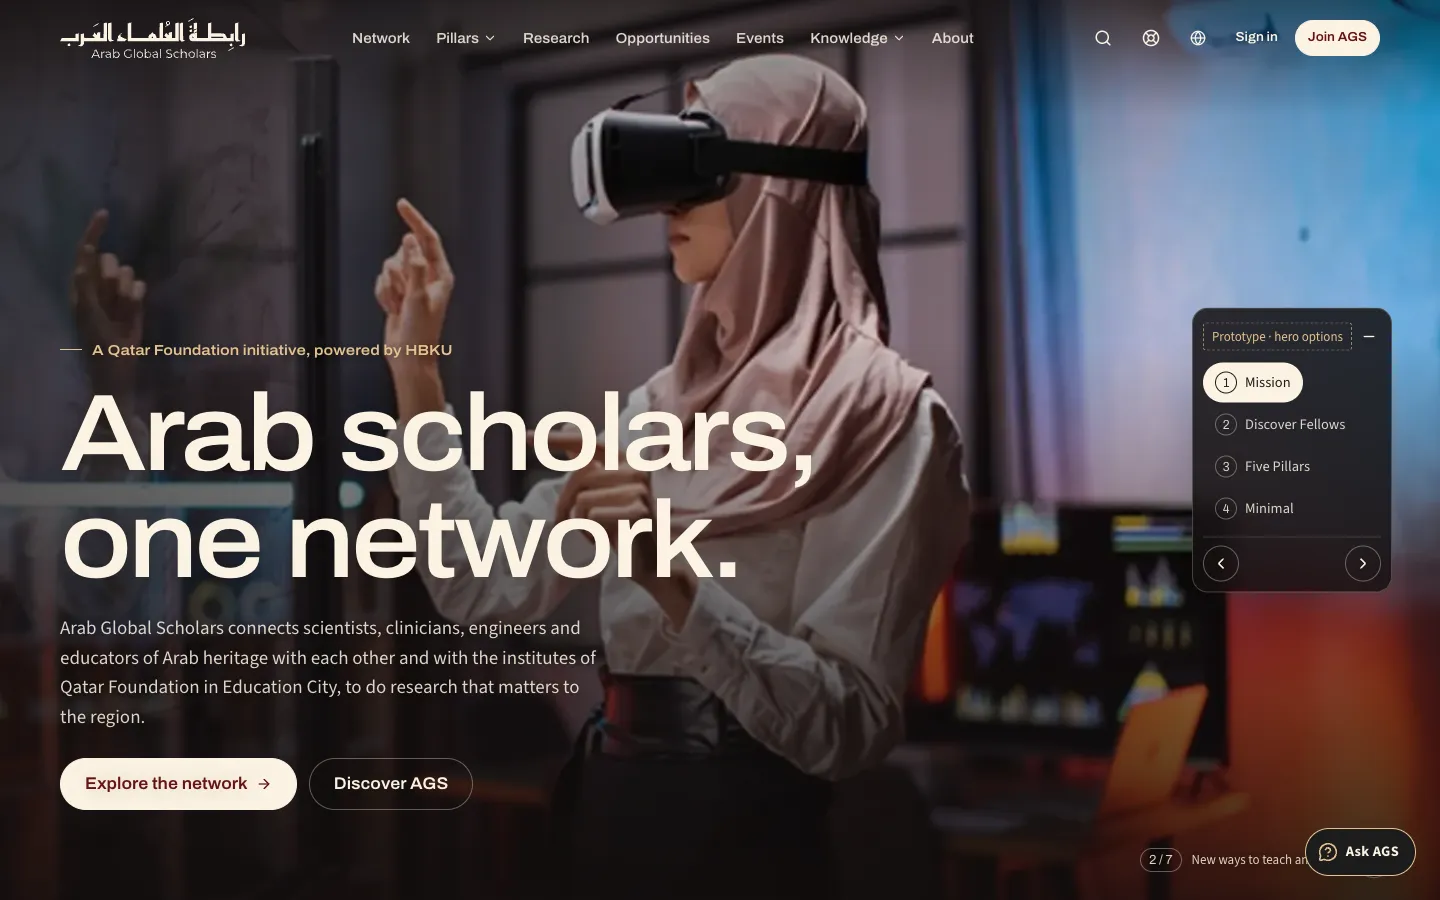
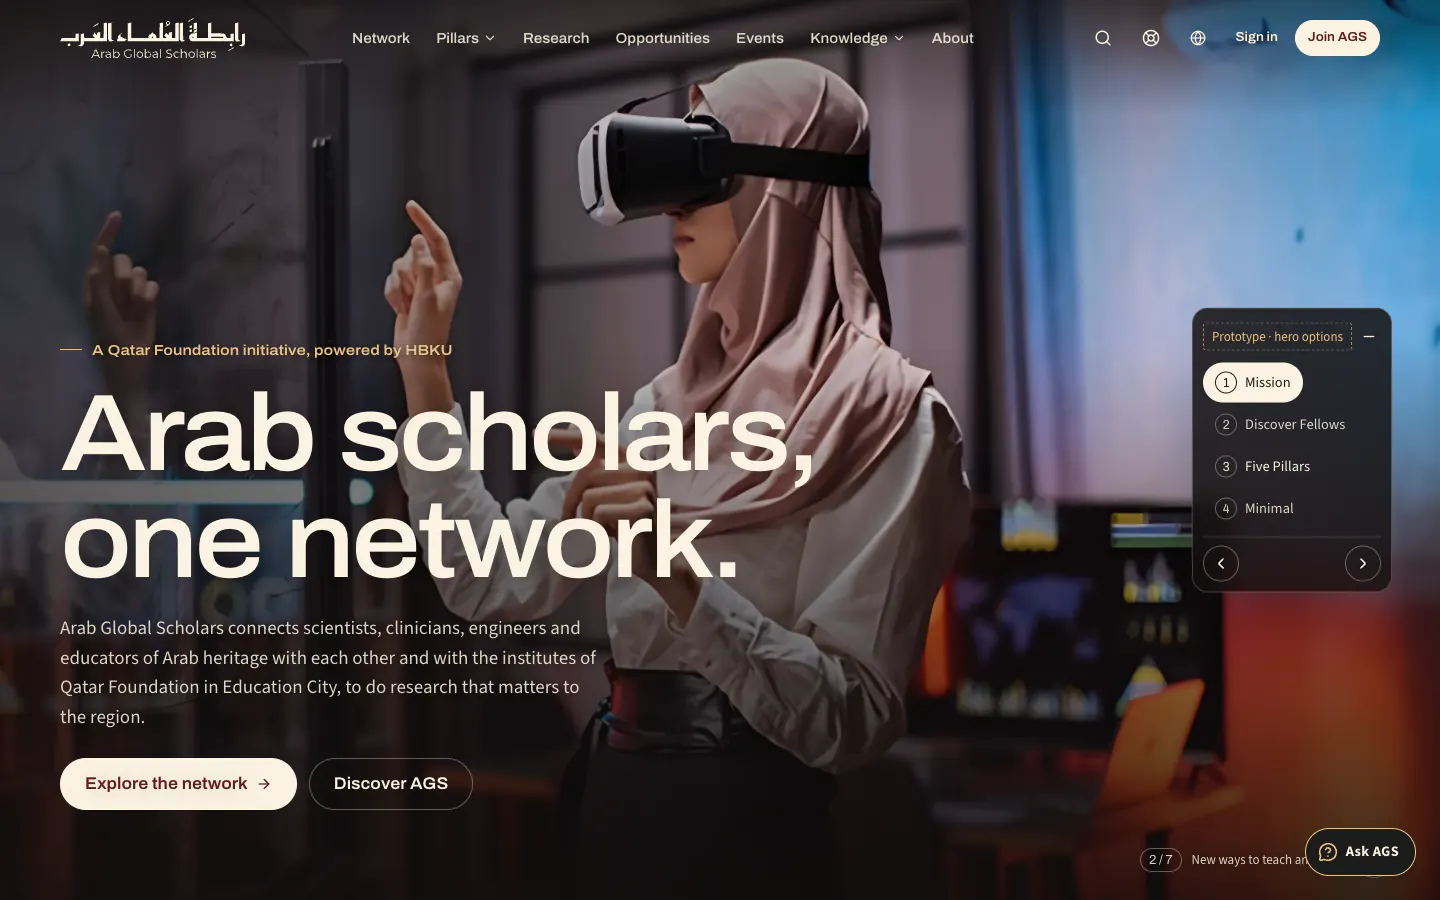
Refresh Concept 4 screenshots with restored photography

diff --git a/index.html b/index.html
@@ -249,7 +249,7 @@ dialog[open]{display:flex;flex-direction:column}
         <div class="langs"><a href="design-3/balanced-institutional/en">English</a><a href="design-3/balanced-institutional/ar" lang="ar">العربية</a><a href="#concept-3">Details</a></div>
       </li>
       <li class="door">
-        <a class="shot" href="design-4/cinematic-digital-flagship/en" tabindex="-1" aria-hidden="true"><img src="assets/design-4-hero.webp" alt="" width="1440" height="900"></a>
+        <a class="shot" href="design-4/cinematic-digital-flagship/en" tabindex="-1" aria-hidden="true"><img src="assets/design-4-hero.webp?v=restored-vr" alt="" width="1440" height="900"></a>
         <h2><a href="design-4/cinematic-digital-flagship/en"><b>4</b>Cinematic Digital Flagship</a></h2>
         <p>A flagship brand. Full-screen photography and large type tell the AGS story.</p>
         <div class="langs"><a href="design-4/cinematic-digital-flagship/en">English</a><a href="design-4/cinematic-digital-flagship/ar" lang="ar">العربية</a><a href="#concept-4">Details</a></div>
@@ -639,8 +639,8 @@ dialog[open]{display:flex;flex-direction:column}
       </div>
       <div class="shots">
         <div>
-          <div class="desk"><img src="assets/design-4-hero.webp" alt="Concept 4 homepage on desktop: a full-screen photograph of a learner in a virtual-reality headset behind the headline “Arab scholars, one network.”, with a panel for switching between headline options." width="1440" height="900" loading="lazy"></div>
-          <div class="shot-meta"><button class="linkish" type="button" data-full="assets/design-4-full.webp" data-title="Concept 4, Cinematic Digital Flagship: full homepage">See the full homepage</button><span>Desktop and mobile, English</span></div>
+          <div class="desk"><img src="assets/design-4-hero.webp?v=restored-vr" alt="Concept 4 homepage on desktop: a full-screen photograph of a learner in a virtual-reality headset behind the headline “Arab scholars, one network.”, with a panel for switching between headline options." width="1440" height="900" loading="lazy"></div>
+          <div class="shot-meta"><button class="linkish" type="button" data-full="assets/design-4-full.webp?v=restored-vr" data-title="Concept 4, Cinematic Digital Flagship: full homepage">See the full homepage</button><span>Desktop and mobile, English</span></div>
           <div class="heroes"><span>Headline options for review:</span>
             <a href="design-4/cinematic-digital-flagship/en">1 Mission</a>
             <a href="design-4/cinematic-digital-flagship/en?hero=2">2 Discover Fellows</a>
@@ -648,7 +648,7 @@ dialog[open]{display:flex;flex-direction:column}
             <a href="design-4/cinematic-digital-flagship/en?hero=4">4 Minimal</a>
           </div>
         </div>
-        <div class="phone"><img src="assets/design-4-mobile.webp" alt="Concept 4 homepage on a phone." width="780" height="1688" loading="lazy"></div>
+        <div class="phone"><img src="assets/design-4-mobile.webp?v=restored-vr" alt="Concept 4 homepage on a phone." width="780" height="1688" loading="lazy"></div>
       </div>
       <div class="details">
         <div>
